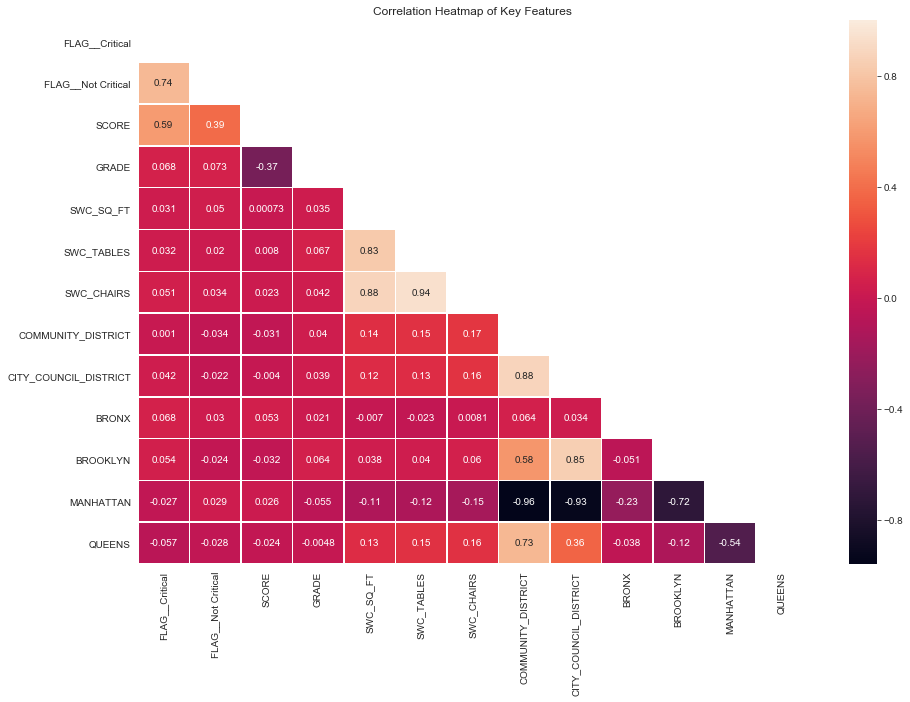
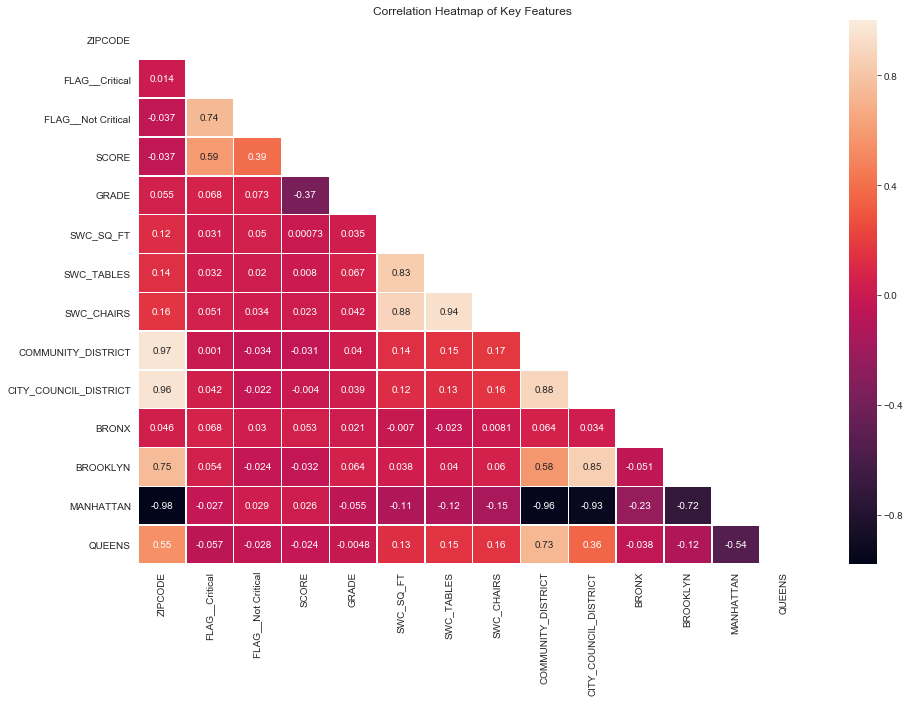
edited README, deleted a dataset, and add image

diff --git a/README.md b/README.md
@@ -5,9 +5,7 @@
 ## Project Overview
 
 
-For food service establishment owners and staff, chances are, you are well acquainted with restaurant inspections especially since all restaurants in NYC are required to post their restaurant inspection grade for the public since 2010. Inspectors from the Department of Health and Mental Hygiene conduct surprise restaurant inspections throughout each year, which usually causes panic in owners and last minute scrambles to prepare for their arrival. All owners seek to receive a restaurant inspection grade of A, which is the best. Grades below an A (ie. B, C, and so on) can cause a decrease in the customer base.
-
-For this project, I was interested in finding the factors that can be used to determine if a restaurant would receive an A during their inspection. Based on research, the factors that would contribute to receiving a particular grade are the type of violations (ie. public hazard violation, critical violation, and general violation) and the points calculated from these violations leading to a score. I thought it would also be fascinating to analyze if there are relationships between: restaurant location vs. grade, cuisine vs. grade, restaurant size vs. grade, and when inspection is conducted vs. grade.
+For this project, I was interested to see if it is possible to predict if a restaurant would receive an A during their inspection. Based on research, the factors that would contribute to receiving a particular grade are the type of violations (ie. public hazard violation, critical violation, and general violation) and the points calculated from these violations leading to a score. I thought it would also be fascinating to analyze if there are relationships between: restaurant location vs. grade, cuisine vs. grade, restaurant size vs. grade, and when inspection is conducted vs. grade.
 
 <b><u> Questions </u>:</b>
 * Do the following factors affect the restaurant inspection grade?
@@ -22,8 +20,10 @@ For this project, I was interested in finding the factors that can be used to de
 The target variable for this project was restaurant inspection grade. A grade of A was expressed as a 1 and any grade other than A was expressed as a 0 in this project. Restaurant inspection score data was also available for this project and could be used as the target variable instead. However, in this case I decided to approach it as a binary classification problem instead of regression problem since the restaurant inspection grade information was available.
 
 
-## Restaurant Inspection Information
+## Background Information
 
+
+For food service establishment owners and staff, chances are, you are well acquainted with restaurant inspections especially since all restaurants in NYC are required to post their restaurant inspection grade for the public since 2010. Inspectors from the Department of Health and Mental Hygiene conduct surprise restaurant inspections throughout each year, which usually causes panic in owners and last minute scrambles to prepare for their arrival. All owners want a restaurant inspection grade of A. Grades below an A (ie. B, C, and so on) can cause a decrease in the customer base.
 
 Restaurants have two chances within an inspection cycle to receive an A. If a restaurant does not receive an A during the first inspection, it is revisited 1 month afterwards for a re-inspection. Restaurants are labeled as "Not Yet Graded" if a grade has not been provided yet.
 
@@ -35,7 +35,7 @@ In general, the following are the breakdown of grade and points:
    * B: 14-27 points
    * C: 28 or more points
 
-There are situations in which only a score is given without a grade. This is perhaps one of the reasons for the null values found in the dataset. More details on how these were handled in the next paragraph. More information on the NYC Department of Health and Mental Hygiene's process for evaluating restaurants can be found online at: <a href=https://www1.nyc.gov/assets/doh/downloads/pdf/rii/how-we-score-grade.pdf>here</a>. The link is also listed in the Data Sources section at the end of the page.
+There are situations in which only a score is given but not a grade. This is perhaps one of the reasons for the null values found in the dataset. More details on how these were handled in the next section. More information on the NYC Department of Health and Mental Hygiene's process for evaluating restaurants can be found online at: <a href=https://www1.nyc.gov/assets/doh/downloads/pdf/rii/how-we-score-grade.pdf>here</a>. The link is also listed in the Data Sources section at the end of the page.
 
 
 ## Data Collection and Analysis
@@ -46,7 +46,7 @@ The NYC Restaurant Inspections Dataset was the primary data source for this proj
 
 ### Null Value Handling
 
-One of the challenging items of this project was handling the null values in the datasets. 
+One of the challenging aspects of this project was handling the null values in the datasets. 
 
 Null values in the NYC Restaurant Inspections dataset were as follows:
 
@@ -99,11 +99,11 @@ Further data cleaning was completed during this step during outlier evaluation.
 
 <u>NYC Restaurant Inspections Dataset</u>:
 
-A boxplot of inspection scores showed positive skewness with outliers after 28 points. All data points with scores greater than 28 points were removed as any scores in that range are prone to shutdown. After removing these outliers, the distribution of the scores was more normal. A boxplot of inspection years showed outliers as any years below 2016. Since most recent years would be more relevant for prediction, data points from inspection years older than 2016 were also removed. 
+A boxplot of inspection scores showed positive skewness with outliers after 28 points. All data points with scores greater than 28 points were removed as any scores in that range are prone to shutdown. After removing these outliers, the distribution of the scores was more normal. A boxplot of inspection years showed outliers as any years below 2016. Since most recent years would be more relevant for prediction and the values are all 0s, data points from inspection years older than 2016 were also removed. 
 
 <u>Sidewalk Cafe Licenses and Applications Dataset Merged with NYC Restaurant Inspections Dataset</u>:
 
-A couple of outliers were also detected in scores, tables, chairs, and cafe size (sq ft) using boxplots. After reviewing the target value counts before/after the outliers were removed, some of these outliers were removed with the goal of also normalizing the class imbalance in the dataset. More caution was placed in handling these outliers as this subset of data was small - about 381 points. The tables and chairs columns were ultimately dropped as they were highly correlated with cafe size (sq ft) after reviewing the correlation matrix (0.797, 0.896 respectively).
+A couple of outliers were also detected in scores, tables, chairs, and cafe size (sq ft) using boxplots. After reviewing the target value counts before/after the outliers were removed, some of these outliers were removed with the goal of also normalizing the class imbalance in the dataset. More caution was placed in handling these outliers as this subset of data was small - about 381 points. The tables and chairs columns were ultimately dropped as they were highly correlated with cafe size (sq ft) after reviewing the correlation matrix, discussed in next section.
 
 #### Data Analysis
 
@@ -138,6 +138,9 @@ Here is a heatmap showing the correlation matrix for a subset of features:
 The following was noted:
 
    * Strongly correlated:
+       * Zip Code x Manhattan: -0.98
+       * Zip Code x Community District: 0.97
+       * Zip Code x City Council District: 0.96
        * Manhattan x Community District: -0.96
        * Tables x Chairs: 0.94
        * Manhattan x City Council District: -0.93
@@ -145,6 +148,7 @@ The following was noted:
        * Tables x Sq Ft: 0.88
        * Chairs x Sq Ft: 0.83
        * Brooklyn x City Council District: 0.85
+       * Zip Code x Brooklyn: 0.75
        * Critical Violations x Non Critical Violations: 0.74
        * Queens x Community District: 0.73
        * Brooklyn x Manhattan: -0.72
@@ -152,6 +156,7 @@ The following was noted:
    * Moderately correlated:
        * Score x Critical Violations: 0.59
        * Brooklyn x Community District: 0.58
+       * Zip Code x Queens: 0.55
        * Queens x Manhattan: -0.54
 
 
@@ -159,10 +164,21 @@ The following was noted:
 
 ## Feature Engineering and Selection
 
+Dummy variables were created for all categorical variables.In the initial approach with only data from the NYC Restaurant Inspections dataset, feature selection was not done prior to running the machine learning models. However, in the next approach with merging the Sidewalk Cafes Licenses and Applications dataset, feature selection was done through feature importance with Decision Tree modelling. The top 200 most important features were selected for the model.
 
 ## Machine Learning Models
 
+
+
 ## Conclusion & Next Steps
+
+
+After a week working on this project, although I found some interesting insights, unfortunately, I was unable to finalize a model that could predict the inspection grade with actionable features. However, if I continue to work on this, the next steps would be:
+
+   * More data (ie. Yelp API)
+   * Additional feature engineering (ie. interaction terms)
+   * Try removing the score as a feature
+
 
 ## Data Sources
 
